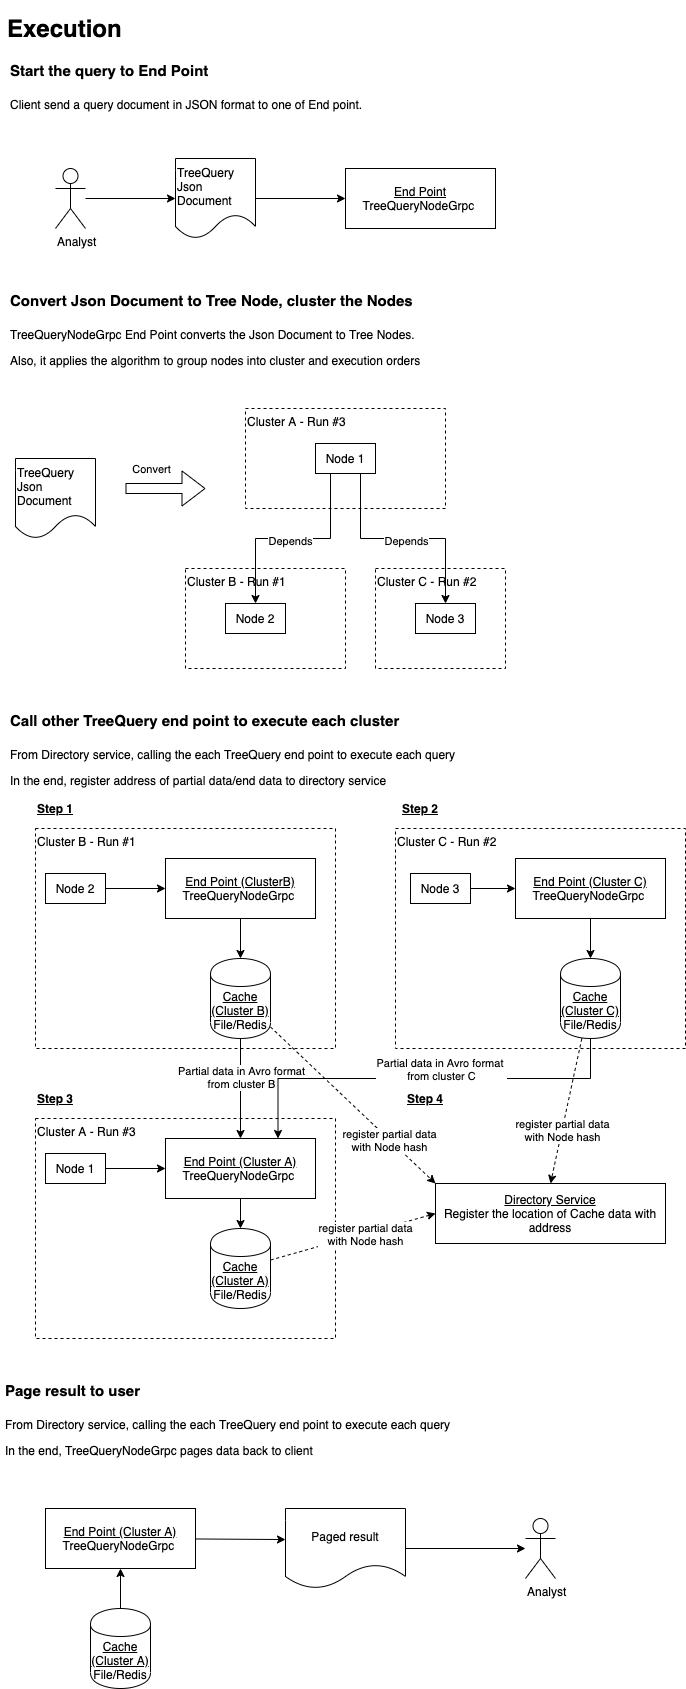
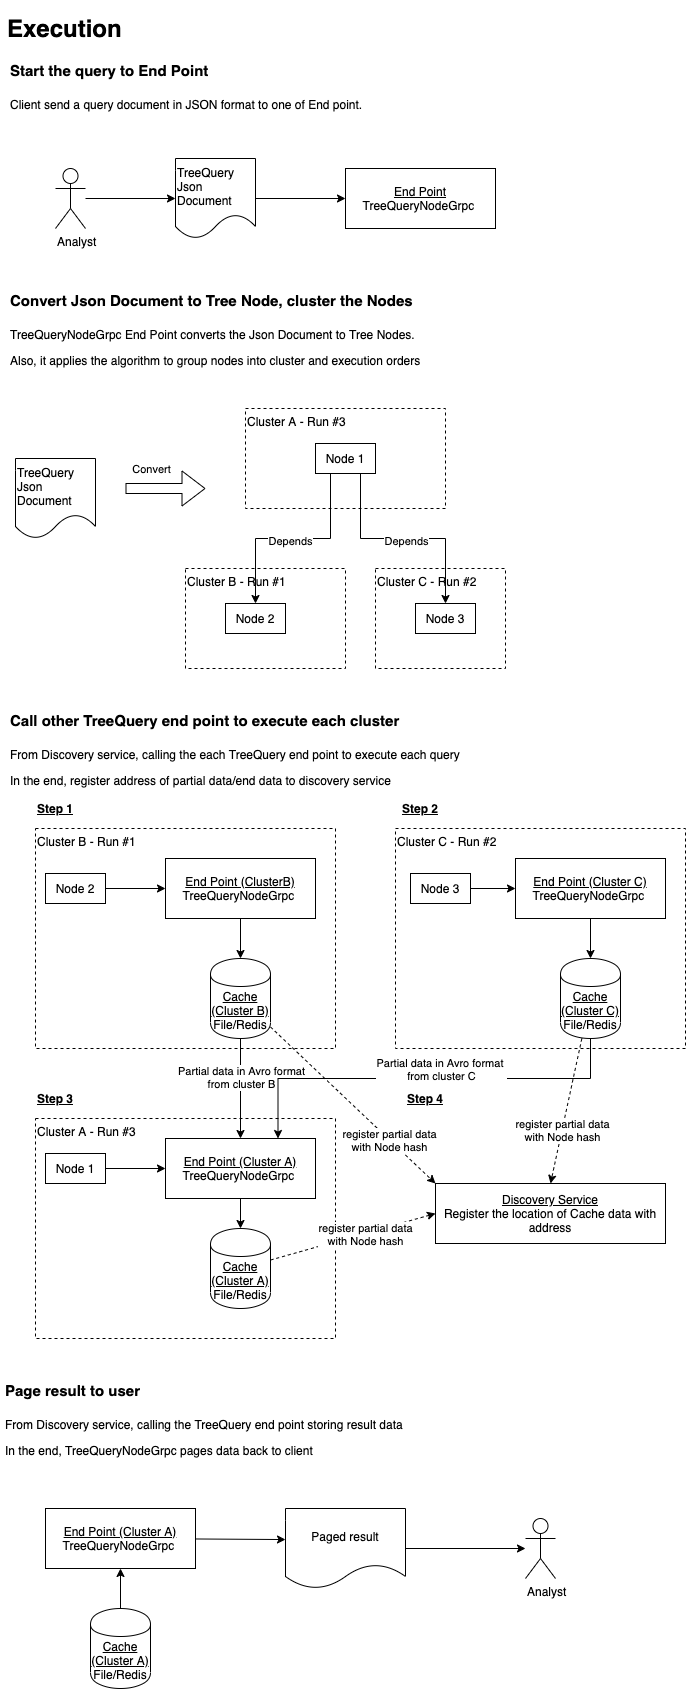
Prepare for Discovery service to locate cache

diff --git a/TreeQueryDiscoveryService/src/main/java/org/treequery/discoveryservice/DiscoveryServiceInterface.java b/TreeQueryDiscoveryService/src/main/java/org/treequery/discoveryservice/DiscoveryServiceInterface.java
@@ -1,0 +1,4 @@
+package org.treequery.discoveryservice;
+
+public interface DiscoveryServiceInterface {
+}

diff --git a/TreeQueryDiscoveryService/src/main/java/org/treequery/discoveryservice/Main.java b/TreeQueryDiscoveryService/src/main/java/org/treequery/discoveryservice/Main.java
@@ -1,0 +1,4 @@
+package org.treequery.discoveryservice;
+
+public class Main {
+}
